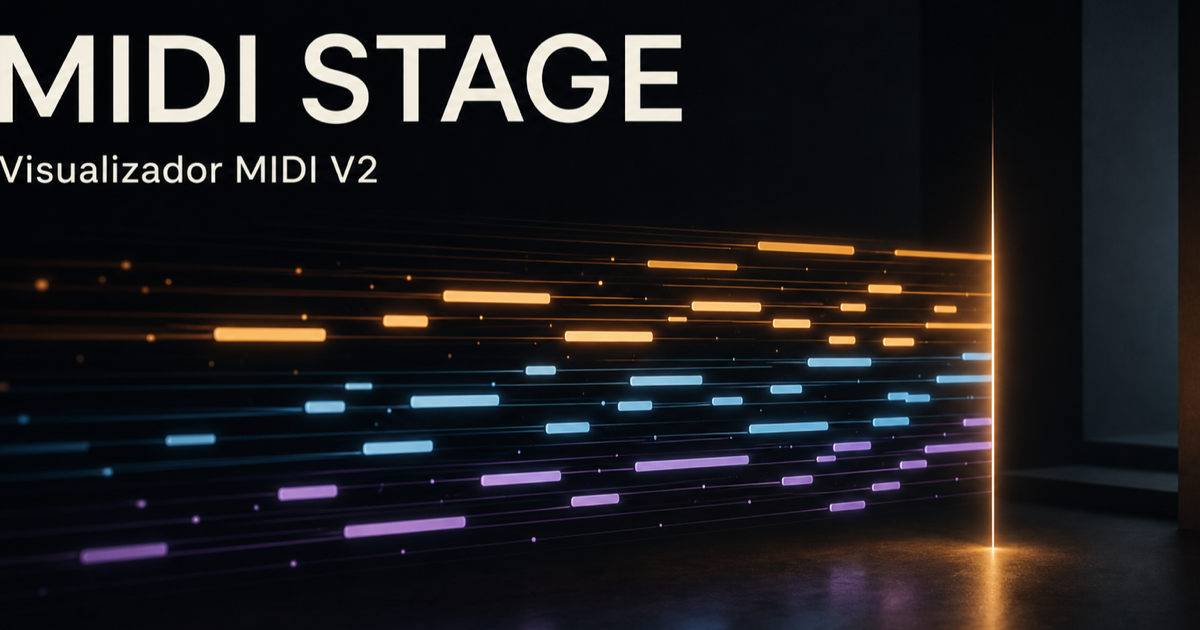
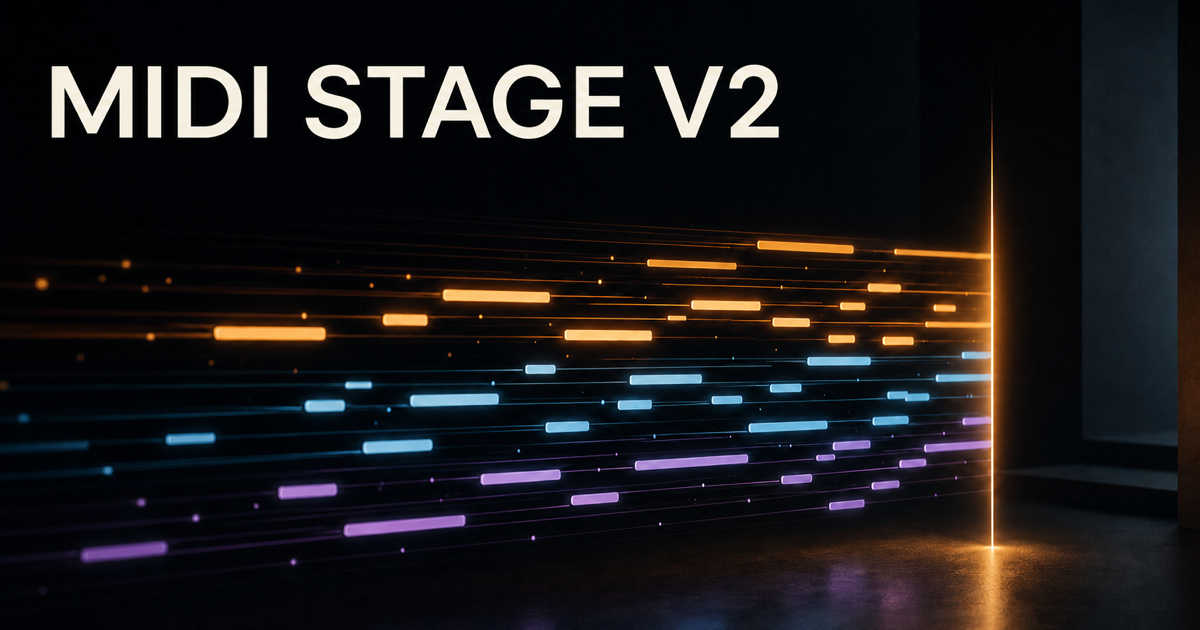
feat: rename product to MIDI Stage V2

diff --git a/index.html b/index.html
@@ -11,9 +11,9 @@
     <meta name="color-scheme" content="dark" />
     <meta name="apple-mobile-web-app-capable" content="yes" />
     <meta name="apple-mobile-web-app-status-bar-style" content="black-translucent" />
-    <meta name="apple-mobile-web-app-title" content="MIDI Stage" />
+    <meta name="apple-mobile-web-app-title" content="MIDI Stage V2" />
     <meta property="og:type" content="website" />
-    <meta property="og:title" content="MIDI Stage — Visualizador MIDI V2" />
+    <meta property="og:title" content="MIDI Stage V2" />
     <meta
       property="og:description"
       content="Animación MIDI fluida, audio opcional y sincronización local mediante anclas."
@@ -21,7 +21,7 @@
     <meta property="og:image" content="/og.png" />
     <link rel="icon" href="/icon.svg" type="image/svg+xml" />
     <link rel="manifest" href="/manifest.webmanifest" />
-    <title>MIDI Stage — Visualizador MIDI V2</title>
+    <title>MIDI Stage V2</title>
   </head>
   <body>
     <div id="root"></div>

diff --git a/src/ui/App.tsx b/src/ui/App.tsx
@@ -1146,8 +1146,7 @@ export function App() {
             <Icon name="sparkles" />
           </span>
           <span className="brand-copy">
-            <strong>MIDI STAGE</strong>
-            <small>Visualizador V2</small>
+            <strong>MIDI STAGE V2</strong>
           </span>
         </div>
         <nav aria-label="Archivos" className="file-actions">

diff --git a/README.md b/README.md
@@ -1,4 +1,4 @@
-# MIDI Stage — Visualizador MIDI V2
+# MIDI Stage V2
 
 Aplicación web local-first para visualizar archivos MIDI con animación de alta
 resolución, audio opcional y sincronización mediante anclas. No exporta video ni

diff --git a/docs/DEVELOPMENT_PLAN.md b/docs/DEVELOPMENT_PLAN.md
@@ -1,4 +1,4 @@
-# Plan de desarrollo — Visualizador MIDI V2
+# Plan de desarrollo — MIDI Stage V2
 
 ## Producto
 
